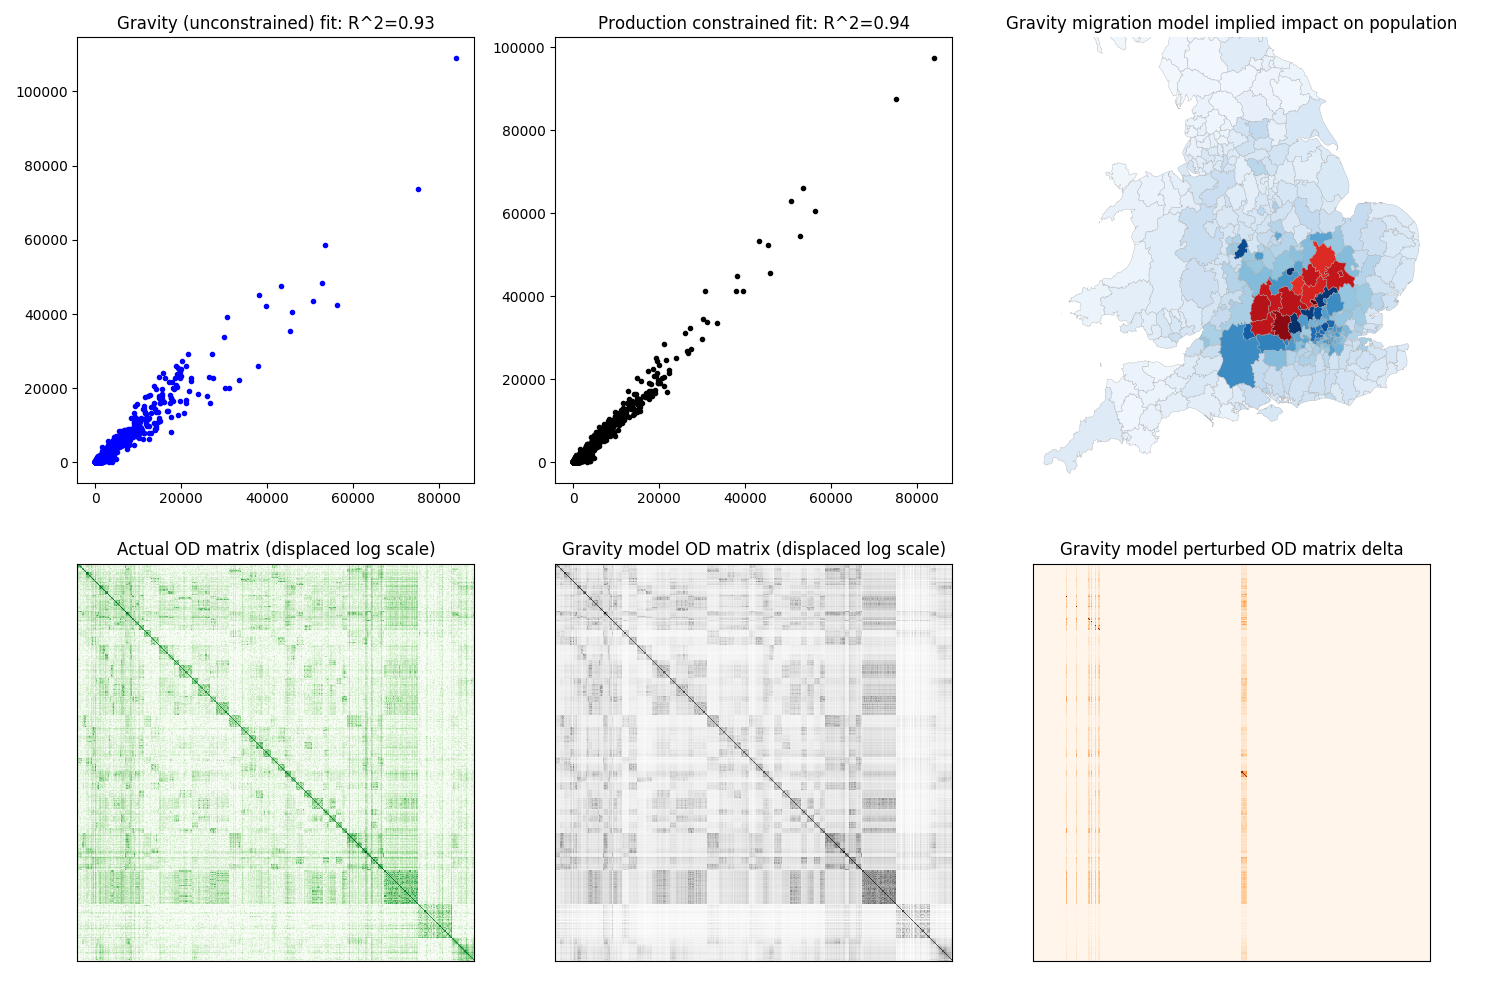
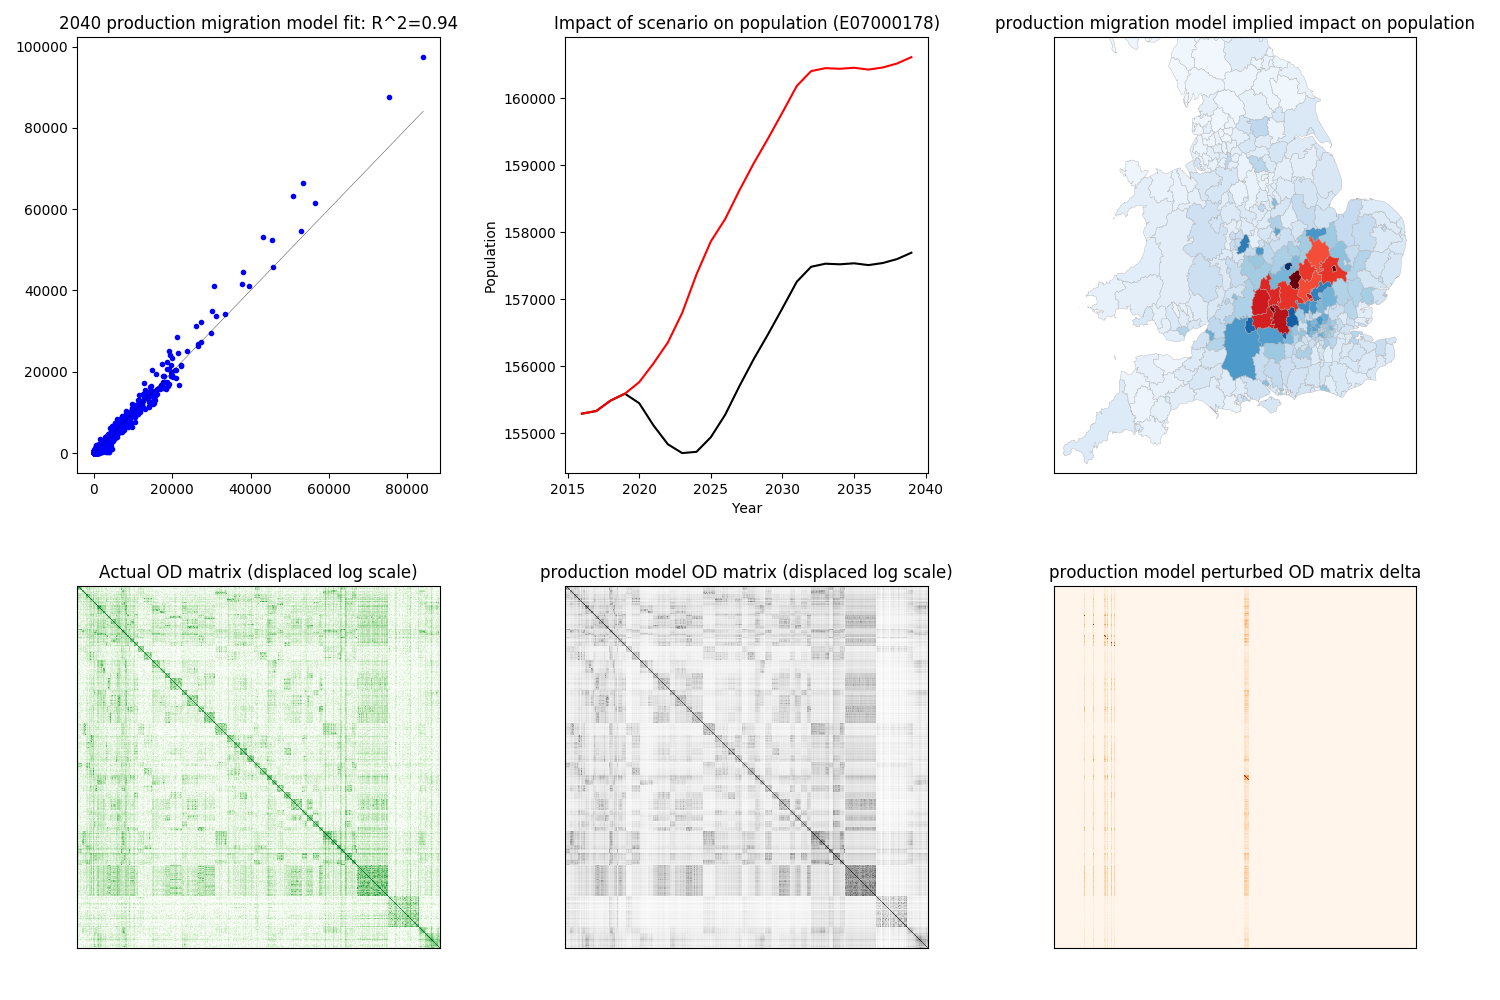
update doc

diff --git a/README.md b/README.md
@@ -5,14 +5,19 @@
 
 NB this package requires the development version of [`ukpopulation`](https://github.com/nismod/ukpopulation)
 
-### Example
+### Introduction
 
-![Example fits](doc/img/sim_basic.png)
-_Figure 1. Illustrative example of gravity (total constrained), and production-constrained fits to 2011 census OD, population and household count data by LAD.  The axes in the scatterplots are number of migrations (x actual, y model). The map shows where the changed migration reduces the population (blue) and increases it (red). The OD matrix delta here is the difference in the model computed OD matrix given 20000 new household spaces in each of 13 local authorities in the CaMKOx corridor._
+This package aims to build a flexible custom population projection generation tool based on spatial interaction models of internal migration within the UK (probably GB only). The tool is intended to be used to model the impact of large and long-term infrastructure changes on population distribution and growth.
 
-The above models are fairly crude because they use only population (as the emitter) and household count (as the attractor) and the cost function is based on Euclidean distance between LAD centroids (with a nonzero minimum cost for inter-LAD migration). 
+The rationale is to take an official population projection (baseline or variant), internal migration data, and additional official figures for factors that may govern migration (employment, housing, GVA etc). The next step is to construct a spatial interaction model of internal migration from this data that meets some (arbitrary) goodness-of-fit criteria. 
 
-This package aims to build on this simple model by developing a more sophisticated model or models with multiple, configurable factors influencing production and attraction.
+Following this, a scenario must be invented that captures some change or changes given by example a future infrastructure project, for example by increasing the housing stock and/or jobs in a specific region. By reapplying the model to the original input data with the scenario applied, a modified migration O-D matrix is generated.
+
+Finally, the change to the O-D matrix can be applied to the original population projection to create a custom variant. The nature of the model means that localised changes have a global impact - so the new variant projection applies to the whole country.
+
+Scenarios can be cumulatively applied over a number of years, e.g. for a 5-year house-building programme. Each subsequent year should use the previous years data *with the scenario applied* as a starting point.
+
+// by developing a more sophisticated model or models with multiple, configurable factors influencing production and attraction.
 
 Once a model has been established with a good fit to the data, the model can then be used to examine the (national) impact on migration of significant changes to infrastructure. As in the example illustrated above, changing the attractiveness parameters at a particular location or locations will result in the model producing a modified OD matrix. This data can then be used to create custom population projection variants at a subnational scale. These variant projections can then be integrated into the [ukpopulation](https://github.com/nismod/ukpopulation) package.
 
@@ -20,9 +25,41 @@ Note that although all the base models are constrained to the total number of mi
 
 The primary case study for this work will be the proposed east-west arc [[1]](#references) (a.k.a. Cambridge-Milton Keynes-Oxford corridor).
 
-![East-west arc in the context of GB](doc/img/gb.png)
+### Caveats
+- the model can only be as good as the input data - not all input datasets are recent. The latest know dataset that captures intra-LAD migrations (which may become inter- under some scenario) is the 2011 census.  
+- the model assumptions are quite simplistic, although inclusion of multiple emission/attraction factors can help.
+- the methodology cannot capture changes in fertility, mortality and international migration that a scenario might be expected to affect.
 
-_Figure 2. East-west arc in context of GB. Cambridge, Milton Keynes and Oxford in red. LADs included in the arc are subject to change._
+### Example
+
+![Example fits](doc/img/sim_basic.png)
+_Figure 1. Illustrative example of a production-constrained fit to internal migration, population and household count data by LAD.  The axes in the scatterplot are number of migrations (x actual, y model). The line plot is the total population of Oxford (LAD) - baseline projection (black) and scenario-modified projection (red). The map shows where the changed migration reduces the population (blue) and increases it (red). The OD matrix delta here is the difference in the model computed OD matrices with and without a scenario where household spaces and jobs are created (unevenly) across the CaMKOx corridor over a 5 year period._
+
+The above models are still under development and more work needs to be done to choose the optimal emitter and attractor categories, use more up-to-date housing data, plus investigate different cost functions (currently a displaced Euclidean distance between LAD centroids). The changes in population from the model is much smaller than would be expected given the scenario applied.
+
+To run this example, clone the project and run (from project root):
+
+```bash
+$ ./setup.py install --user
+$ scripts/run.py -c config/production2.json
+```
+Some example configuration files can be found here:
+- [config/gravity.json](config/gravity.json)
+- [config/production.json](config/production.json)
+- [config/production2.json](config/production2.json)
+- [config/production3.json](config/production3.json)
+
+And scenarios here:
+- [data/scenarios/scenario1.csv](data/scenarios/scenario1.csv)
+- [data/scenarios/scenario1.csv](data/scenarios/scenario2.csv)
+
+### Data Requirements
+- ONS sub-national population projections
+- ONS sub-national housing projections
+- Employment and/or related data (e.g. GVA)
+- Internal migration data (LAD level)
+- Other emissiveness/attractiveness factors as necessary
+- **Specific modifications to the some or all of the above that describe a specific infrastructure scenario.**
 
 # References
 [1] National Infrastructure Commission, 2017, [Growth Arc – Completed Study](https://www.nic.org.uk/our-work/growth-arc/)
